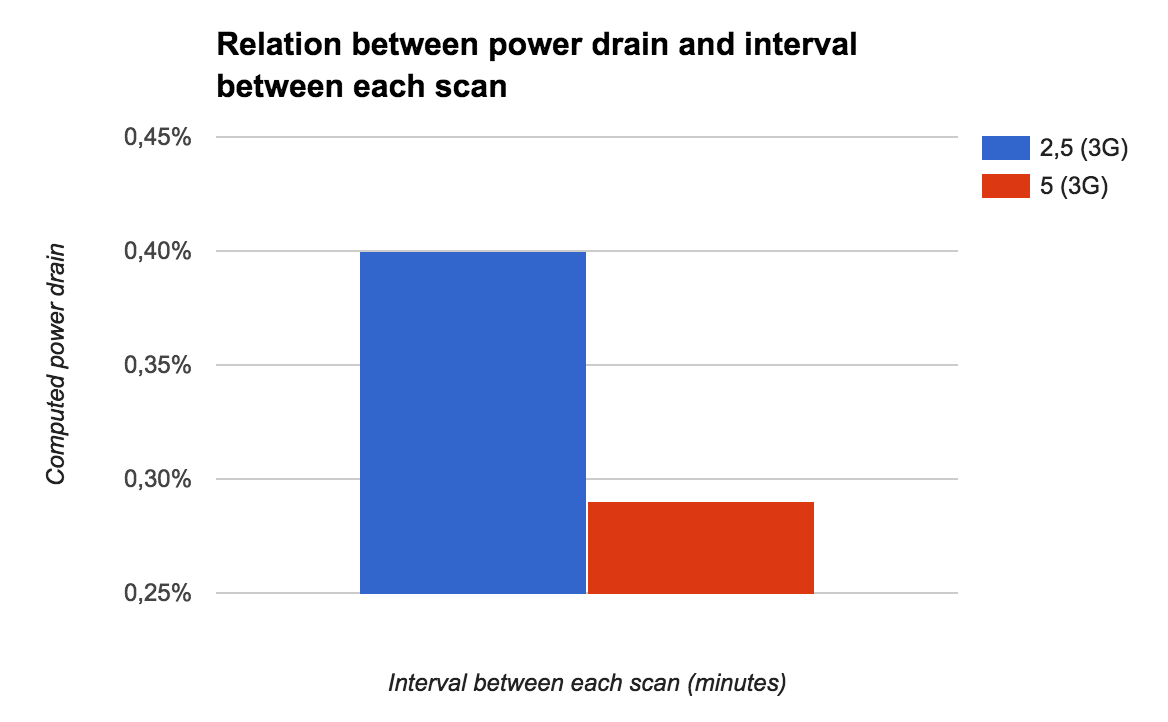
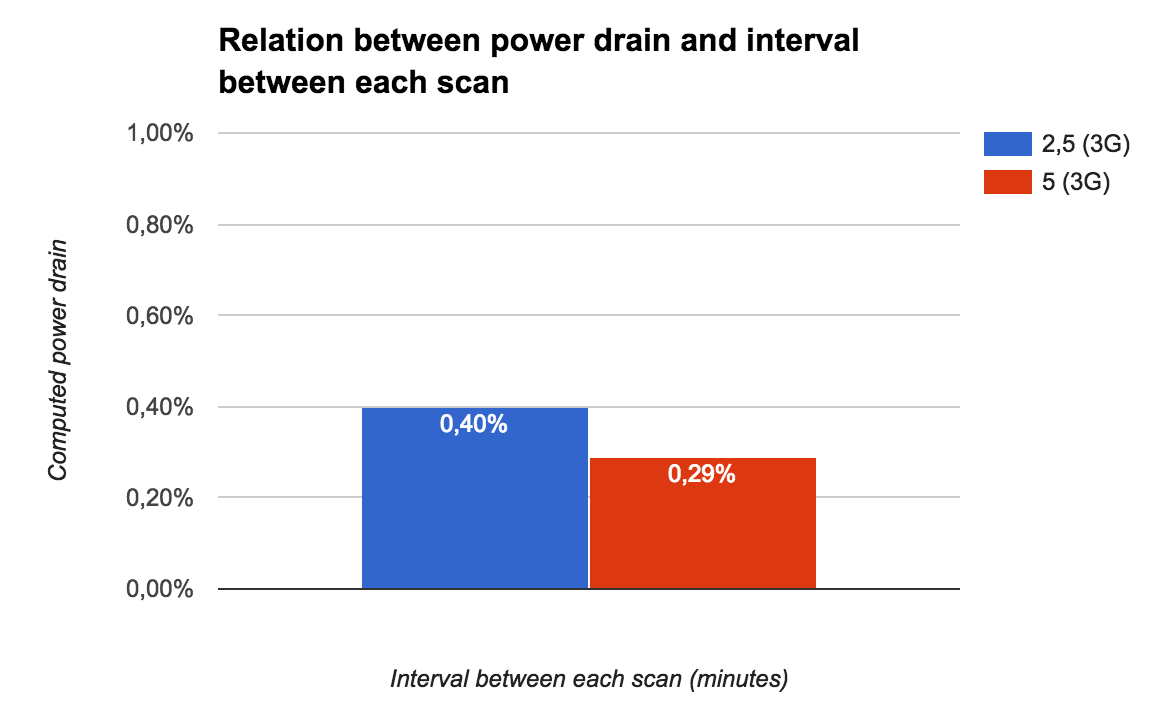
Fixed graphics that were not starting at value zero. Closes #102

diff --git a/dissertation/chapters/evaluation.tex b/dissertation/chapters/evaluation.tex
@@ -53,7 +53,7 @@ In this first set of experiments, the value d starts at 50 centimeters and is in
 \begin{figure}[!ht]
   \centering
     \includegraphics[width=0.5\textwidth, keepaspectratio]{images/nearest_beacon}
-    \caption{Beacons with equal distance from each other}
+    \caption{Layout used for the experiments to get the accuracy of the distance value}
     \label{fig:layout_experiments_nearest_beacon}
 \end{figure}
 
@@ -84,10 +84,20 @@ Table~\ref{tab:experiments_battery} outlines the experiments performed to evalua
 
 \input{tables/experiments_battery.tex}
 
-Simillary to the experiments explained in section \ref{sub:methodology_resources_usage} it was used the same layout as shown in Figure~\ref{fig:experiments_resources_layout}. We performed six experiments. The first two used \gls{WiFi} data connection. The remaining used \gls{3G}.
+Figure~\ref{fig:layout_experiments_battery_consumption} shows the layout used for this group of experiments.
+There are the same three beacons, as in the the experiments described in section \ref{sub:methodology_nearest_beacon}. The beacons are equally distant, 25 cm, from each other.
+The smartphone is at the same distance from the beacon in the middle, the green one named mint.
+We performed six experiments. The first two used \gls{WiFi} data connection. The remaining used \gls{3G}.
 Using different data connection types allows us to understand if the battery consumption, when the user is not nearby a \gls{WiFi} \gls{AP}.
 We tested two values for the interval between each scan, 5 minutes, because it is the default value that the beacons library use in background mode, and 2 and half minutes.
 The second value is half the first and we used it to test the impact of this value on battery consumption.
+
+\begin{figure}[!ht]
+  \centering
+    \includegraphics[width=0.5\textwidth, keepaspectratio]{images/experiments_battery_layout}
+    \caption{Layout used for the experiments to get the battery consumption}
+    \label{fig:layout_experiments_battery_consumption}
+\end{figure}
 
 The following scenarios were tested:
 \begin{itemize}
